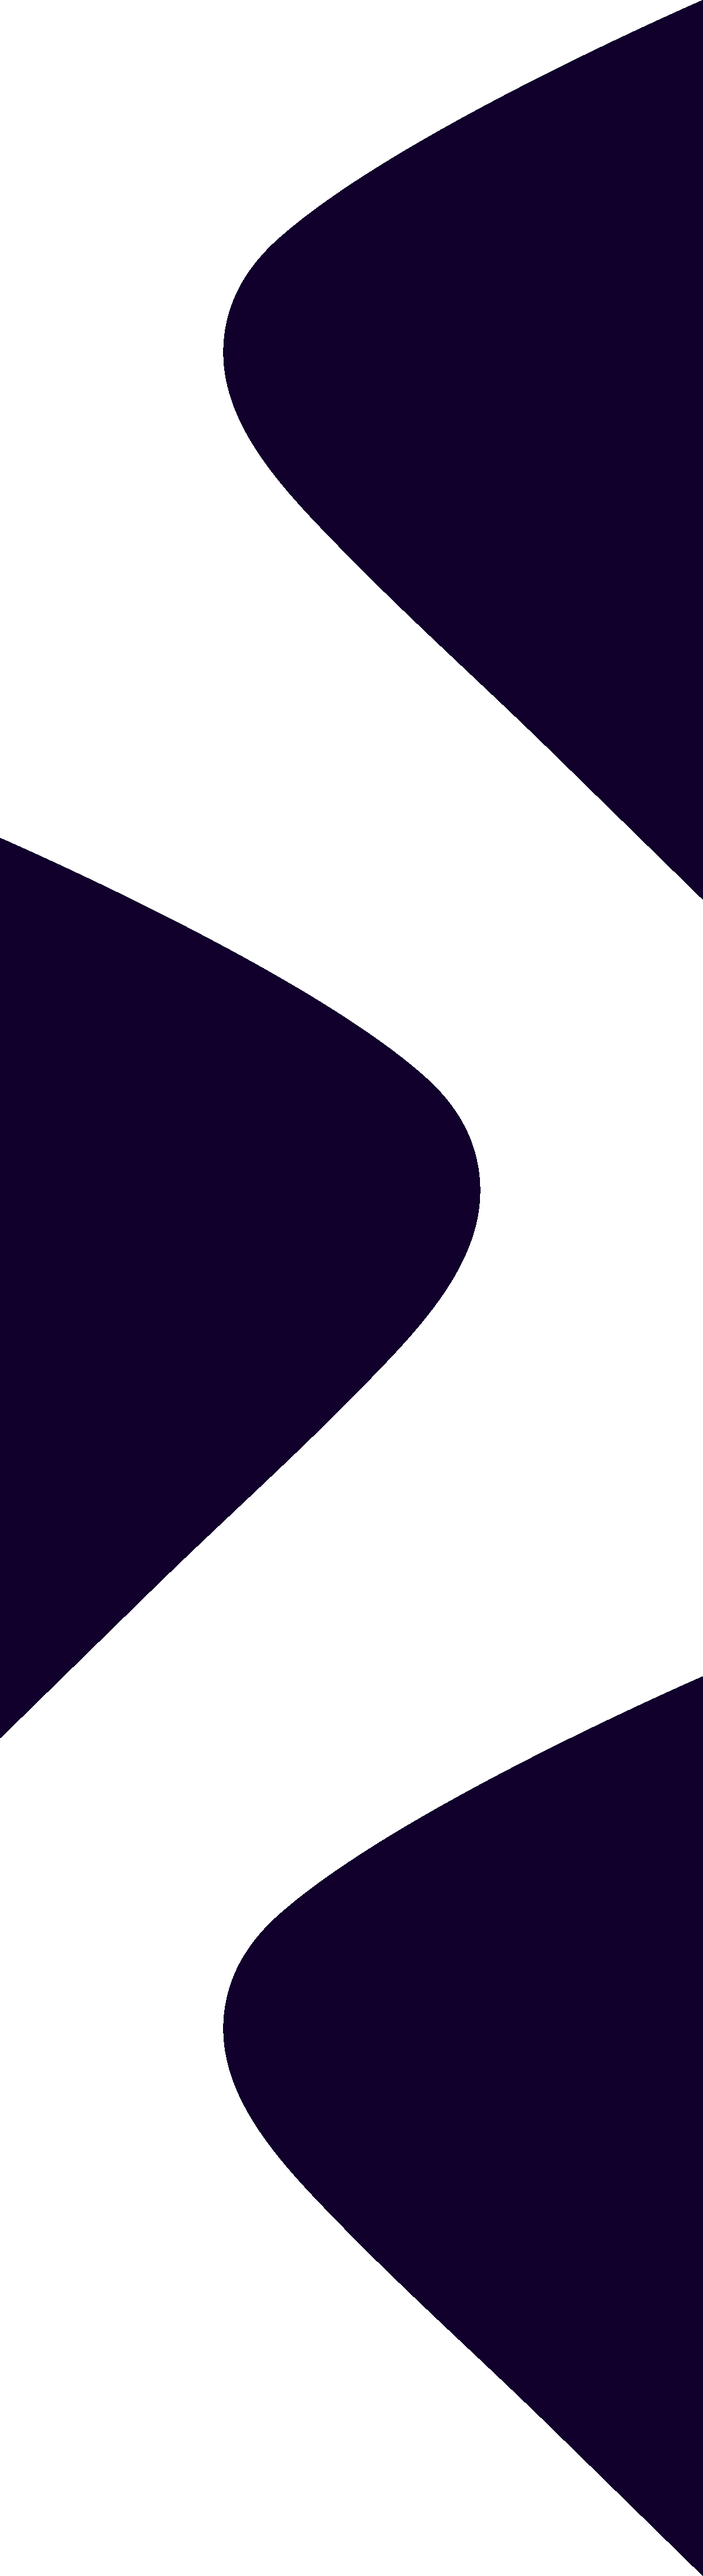
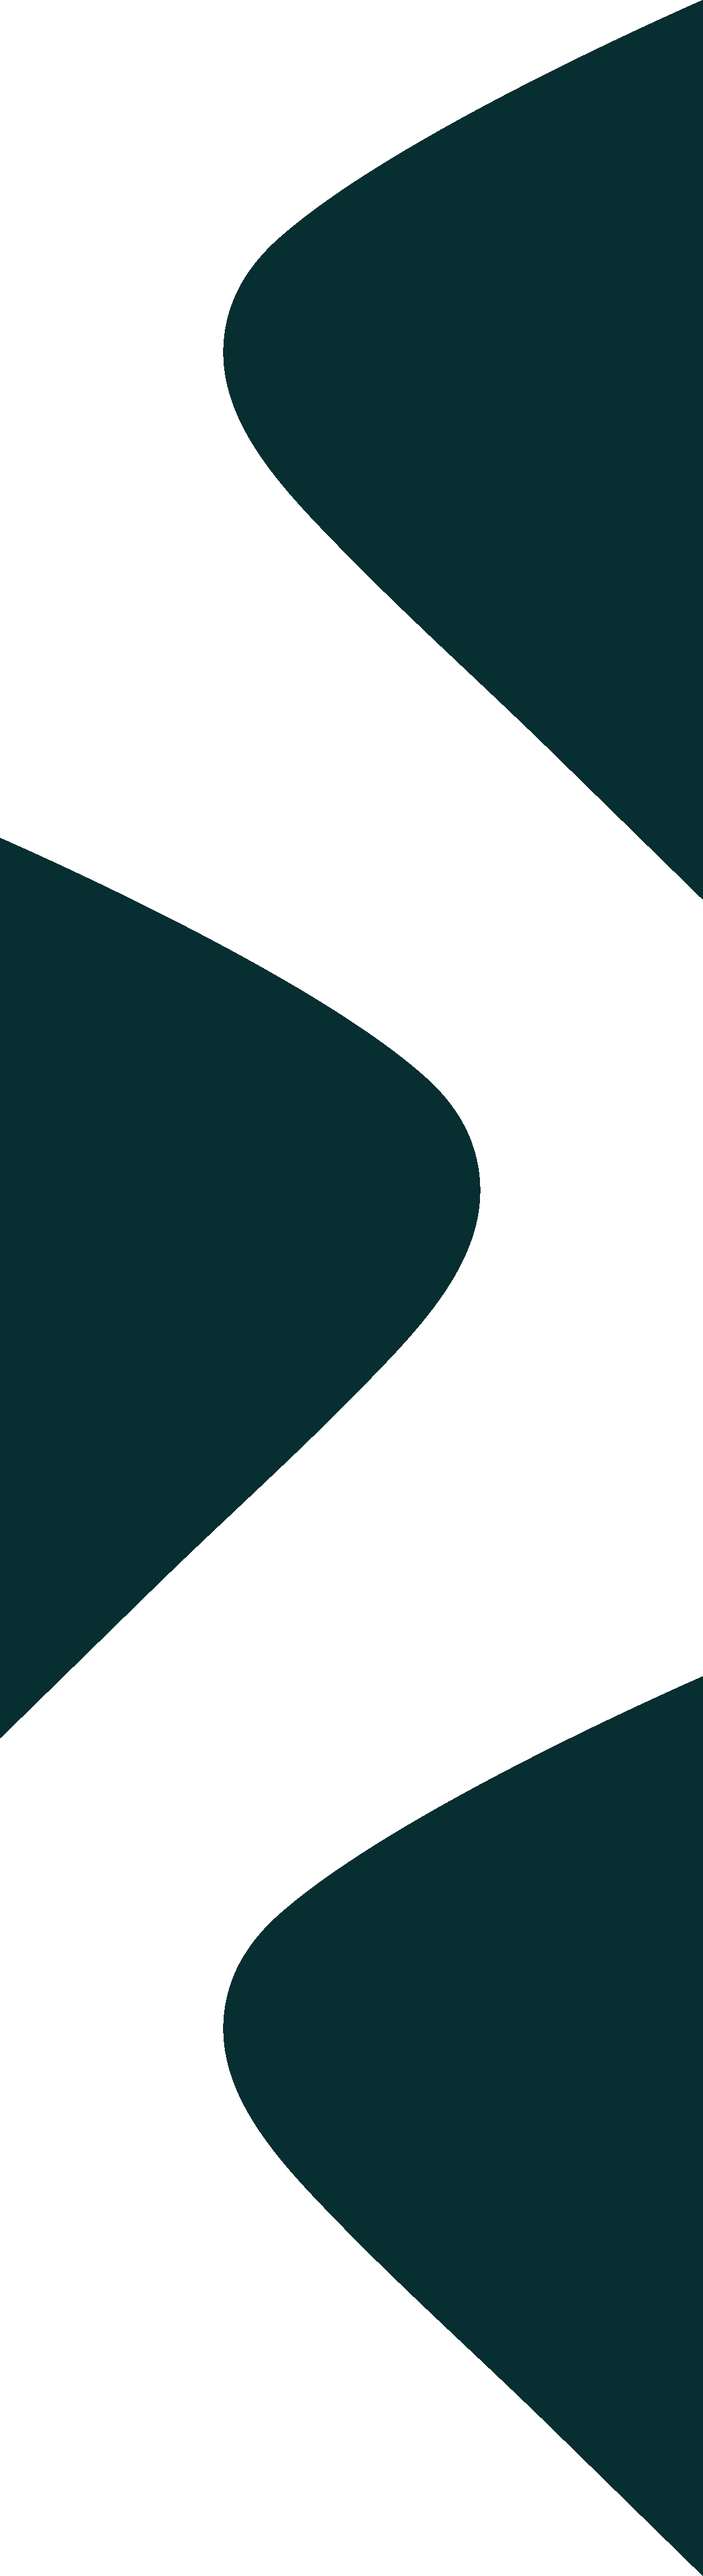
change image

diff --git a/styles/dist/styles.min.css b/styles/dist/styles.min.css
@@ -1,6 +1,7 @@
 :root {
   --primary: #4edbe6;
   --secondary: #235871;
+  --bg-color: #0a1c1d;
 }
 
 @import url("https://fonts.googleapis.com/css2?family=Nunito:ital,wght@0,300;0,400;0,600;0,700;1,300;1,400;1,600;1,700&display=swap");
@@ -25,7 +26,7 @@ html {
   }
 }
 body {
-  background: #0b001e;
+  background: var(--bg-color);
   color: #fff;
   font-size: 1rem;
   font-family: "Nunito", sans-serif;
@@ -93,27 +94,25 @@ section {
   padding: 3rem 0;
 }
 .gradient-background {
-  background: -webkit-gradient(
-    linear,
-    left top,
-    left bottom,
-    from(rgba(0, 0, 0, 0)),
-    color-stop(25%, rgba(3, 0, 8, 0.4)),
-    color-stop(45%, rgba(5, 0, 14, 0.6)),
-    color-stop(60%, rgba(7, 0, 18, 0.75)),
-    color-stop(75%, rgba(9, 0, 23, 0.85)),
-    color-stop(90%, #0a001b),
-    to(#0b001e)
+  background: -webkit-linear-gradient(
+    rgba(2, 53, 89, 0) 0%,
+    rgba(10, 28, 29, 0.4) 25%,
+    rgba(10, 28, 29, 0.6) 45%,
+    rgba(10, 28, 29, 0.829) 60%,
+    rgb(10, 28, 29) 100%,
+    #0a1c1d 90%,
+    #10354721 100%
   );
+
   background: linear-gradient(
     to bottom,
-    rgba(0, 0, 0, 0) 0%,
-    rgba(3, 0, 8, 0.4) 25%,
-    rgba(5, 0, 14, 0.6) 45%,
-    rgba(7, 0, 18, 0.75) 60%,
-    rgba(9, 0, 23, 0.85) 75%,
-    #0a001b 90%,
-    #0b001e 100%
+    rgba(2, 53, 89, 0) 0%,
+    rgba(10, 28, 29, 0.4) 25%,
+    rgba(10, 28, 29, 0.6) 45%,
+    rgba(10, 28, 29, 0.829) 60%,
+    rgb(10, 28, 29) 100%,
+    #0a1c1d 90%,
+    #10354721 100%
   );
   height: 200px;
 }
@@ -487,7 +486,7 @@ header .header-wrapper .menu {
   -webkit-box-align: center;
   -ms-flex-align: center;
   align-items: center;
-  background: #140038;
+  background: var(--primary);
   position: absolute;
   left: -5rem;
   top: 1rem;
@@ -514,7 +513,7 @@ header .header-wrapper .menu {
   width: 12rem;
   height: 12rem;
   border-radius: 50%;
-  background: #0b001e;
+  background: var(--secondary);
 }
 @media screen and (max-width: 992px) {
   .faq .faq-wrapper .question-mark + span {
@@ -534,7 +533,7 @@ header .header-wrapper .menu {
   border: 3px solid var(--primary);
   padding: 2rem;
   margin-left: 1rem;
-  background: #0b001e;
+  background: var(--bg-color);
   margin-bottom: 3rem;
 }
 .faq .faq-wrapper .questions h3 {
@@ -583,7 +582,7 @@ header .header-wrapper .menu {
   transition: 0.25s ease-in-out;
 }
 .faq .faq-wrapper .questions .question-item > div p:first-child {
-  border-top: 2px solid #47056b;
+  border-top: 2px solid var(--primary);
   margin-top: 1rem;
   margin-bottom: 0;
   padding-top: 1rem;

diff --git a/index.html b/index.html
@@ -39,7 +39,7 @@
             </div>
             <ul class="menu-lists">
               <li><a href="#">Home</a></li>
-              <li><a href="#about">Who is Spacechimp</a></li>
+              <li><a href="#about">Who is SUNSHINE</a></li>
               <li><a href="#rugfee">Rug Free</a></li>
               <li><a href="#milestone">Milestone</a></li>
               <li><a href="#pakonomics">Tokenomics</a></li>
@@ -136,7 +136,7 @@
           </div>
           <div class="right fade-left">
             <div class="me-0 me-lg-4">
-              <div class="gradient-card" style="margin: 0">
+              <div id="rugfee" class="gradient-card" style="margin: 0">
                 <h2>Rug Free</h2>
                 <p>
                   Our contract has been carefully developed by our devs, and we
@@ -431,9 +431,7 @@
           <div class="questions">
             <div class="question-item shadow fade-left">
               <h3 class="faq-title">
-                <div class="number">
-                  <span>01.</span>How do I buy $SUNSHINE?
-                </div>
+                <div class="number"><span>01.</span>How do I buy SUNSHINE?</div>
                 <i class="fas fa-chevron-down"></i>
               </h3>
               <div>
